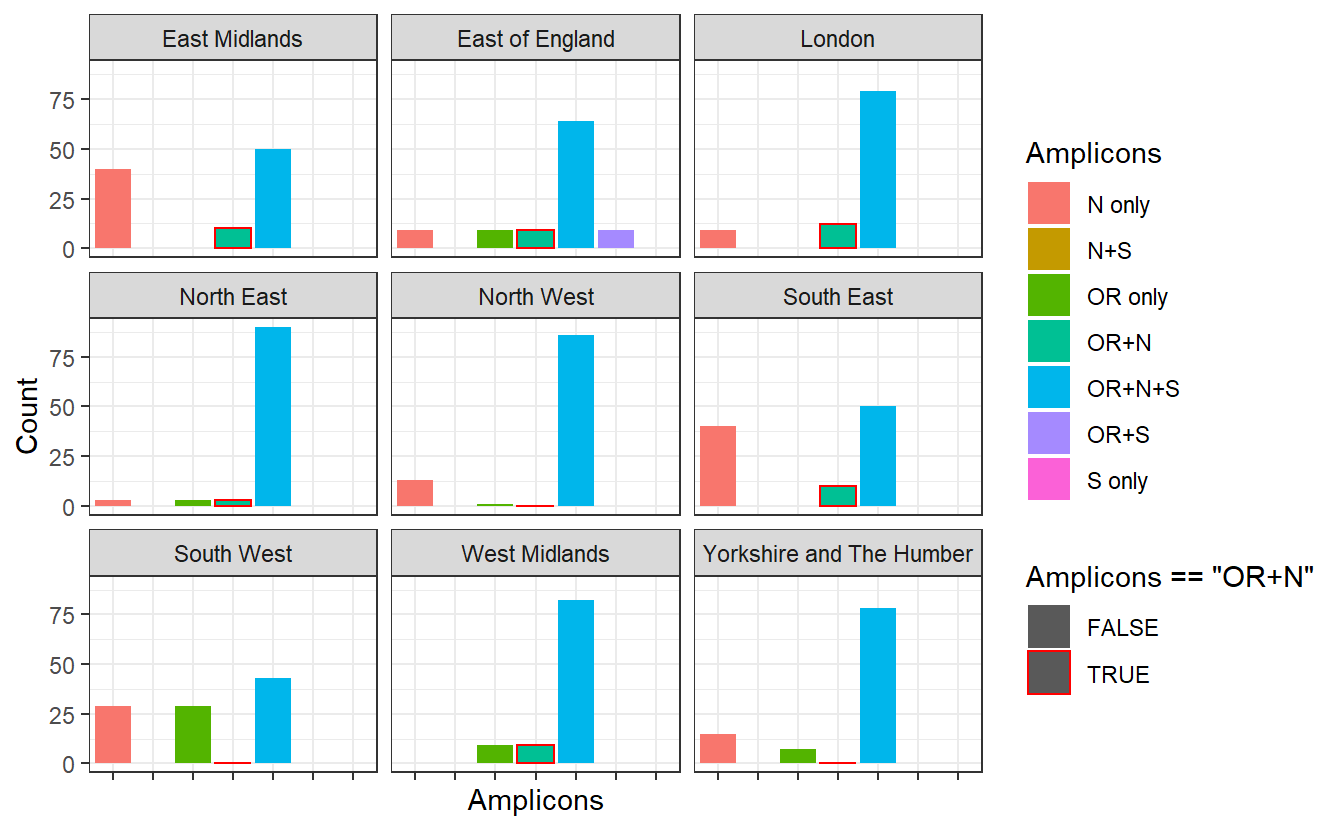
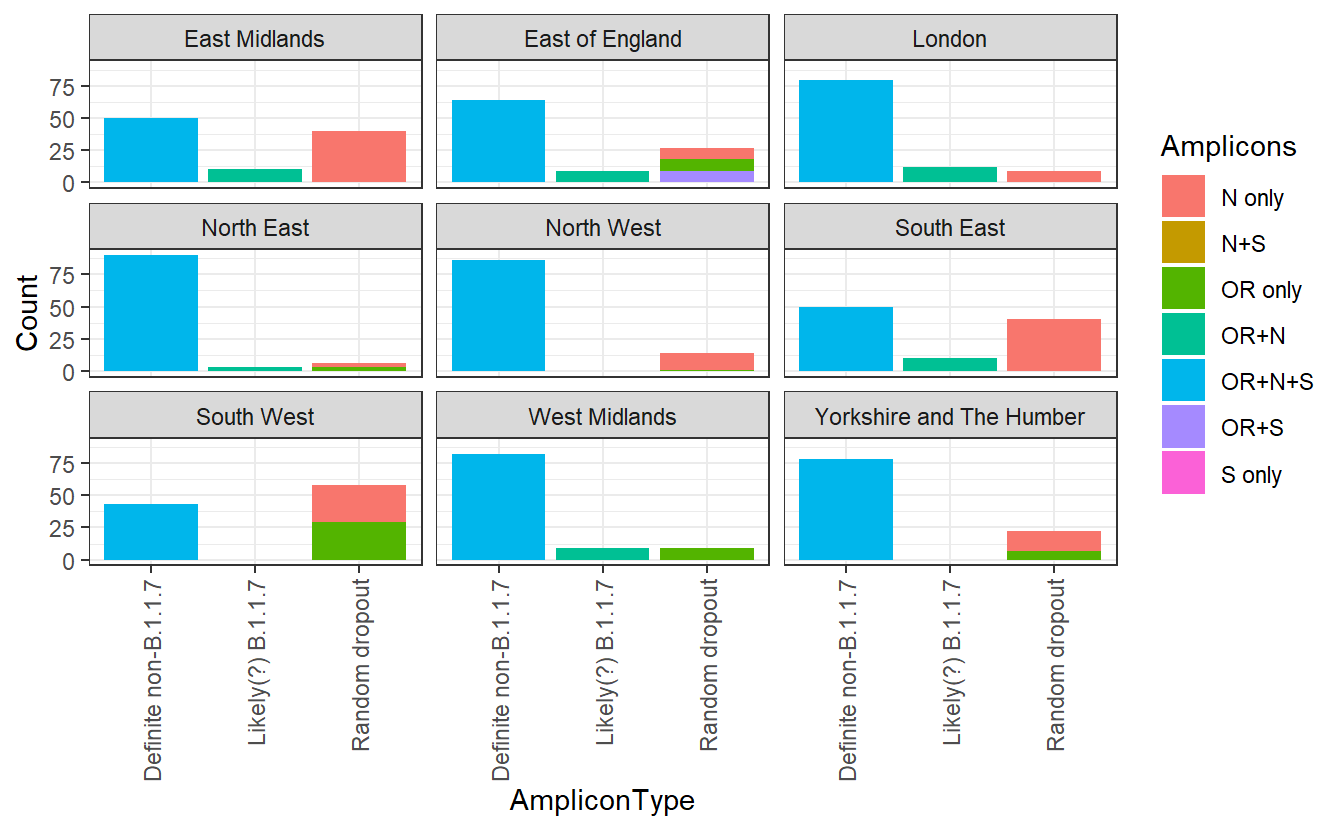
updates

diff --git a/content/post/2021-01-22-ons-data/index.md b/content/post/2021-01-22-ons-data/index.md
@@ -12,11 +12,11 @@ draft: false
 projects: []
 mininote: true
 output:  hugodown::md_document  
-rmd_hash: 0fa88b389b7b594e
+rmd_hash: 6a2fcf846baa64a5
 
 ---
 
-Code behind this analysis: <a href="https://github.com/theosanderson/theo.io/tree/master/content/post/2021-01-22-ons-data" class="uri">https://github.com/theosanderson/theo.io/tree/master/content/post/2021-01-22-ons-data</a>
+<small>Code behind this analysis: <a href="https://github.com/theosanderson/theo.io/tree/master/content/post/2021-01-22-ons-data" class="uri">https://github.com/theosanderson/theo.io/tree/master/content/post/2021-01-22-ons-data</a></small>
 
 The ONS infection survey has come out and there has been a lot of discussion on the apparent decrease in proportion of "new variant compatible" cases.
 
@@ -38,20 +38,23 @@ First let's convince ourselves that, irrespective of B.1.1.7, dropouts of amplic
 
 <div class="highlight">
 
-<pre class='chroma'><code class='language-r' data-lang='r'><span class='nv'>subset</span> <span class='o'>=</span> <span class='nv'>data</span> <span class='o'>%&gt;%</span> <span class='nf'><a href='https://rdrr.io/r/stats/filter.html'>filter</a></span><span class='o'>(</span><span class='nv'>week</span><span class='o'>==</span><span class='s'>"2020-09-21"</span><span class='o'>)</span> <span class='o'>%&gt;%</span> <span class='nf'><a href='https://rdrr.io/r/stats/filter.html'>filter</a></span><span class='o'>(</span><span class='nv'>RegionType</span><span class='o'>==</span><span class='s'>"EnglandRegion"</span><span class='o'>)</span>
-<span class='nf'>ggplot</span><span class='o'>(</span><span class='nv'>subset</span>,<span class='nf'>aes</span><span class='o'>(</span>x<span class='o'>=</span><span class='nv'>Amplicons</span>,y<span class='o'>=</span><span class='nv'>Count</span>,fill<span class='o'>=</span><span class='nv'>Amplicons</span>,color<span class='o'>=</span><span class='nv'>Amplicons</span><span class='o'>==</span><span class='s'>"OR+N"</span><span class='o'>)</span><span class='o'>)</span><span class='o'>+</span><span class='nf'>geom_bar</span><span class='o'>(</span>stat<span class='o'>=</span><span class='s'>"identity"</span><span class='o'>)</span><span class='o'>+</span><span class='nf'>facet_wrap</span><span class='o'>(</span><span class='o'>~</span><span class='nv'>Region</span><span class='o'>)</span><span class='o'>+</span><span class='nf'>theme_bw</span><span class='o'>(</span><span class='o'>)</span><span class='o'>+</span>
-  <span class='nf'>theme</span><span class='o'>(</span>
-        axis.text.x<span class='o'>=</span><span class='nf'>element_blank</span><span class='o'>(</span><span class='o'>)</span>
-        <span class='o'>)</span><span class='o'>+</span><span class='nf'>scale_color_manual</span><span class='o'>(</span>values<span class='o'>=</span><span class='nf'><a href='https://rdrr.io/r/base/c.html'>c</a></span><span class='o'>(</span><span class='s'>"NA"</span>,<span class='s'>"red"</span><span class='o'>)</span><span class='o'>)</span>
+<pre class='chroma'><code class='language-r' data-lang='r'><span class='nv'>subset</span> <span class='o'>=</span> <span class='nv'>data</span> <span class='o'>%&gt;%</span> <span class='nf'><a href='https://rdrr.io/r/stats/filter.html'>filter</a></span><span class='o'>(</span><span class='nv'>week</span><span class='o'>==</span><span class='s'>"2020-09-21"</span><span class='o'>)</span> <span class='o'>%&gt;%</span> <span class='nf'><a href='https://rdrr.io/r/stats/filter.html'>filter</a></span><span class='o'>(</span><span class='nv'>RegionType</span><span class='o'>==</span><span class='s'>"EnglandRegion"</span><span class='o'>)</span> <span class='o'>%&gt;%</span> <span class='nf'>mutate</span><span class='o'>(</span>AmpliconType <span class='o'>=</span> <span class='nf'>case_when</span><span class='o'>(</span>
+ <span class='nv'>Amplicons</span> <span class='o'>%in%</span> <span class='nf'><a href='https://rdrr.io/r/base/c.html'>c</a></span><span class='o'>(</span><span class='s'>"N only"</span>,<span class='s'>"N+S"</span>,<span class='s'>"OR only"</span>,<span class='s'>"OR+S"</span>,<span class='s'>"S only"</span><span class='o'>)</span> <span class='o'>~</span> <span class='s'>"Random dropout"</span>,
+  <span class='nv'>Amplicons</span> <span class='o'>==</span> <span class='s'>"OR+N+S"</span> <span class='o'>~</span> <span class='s'>"Definite non-B.1.1.7"</span>,
+  <span class='nv'>Amplicons</span> <span class='o'>==</span> <span class='s'>"OR+N"</span> <span class='o'>~</span> <span class='s'>"Likely(?) B.1.1.7"</span>
+<span class='o'>)</span><span class='o'>)</span>
+                                                                                                
+                                                                                                
+<span class='nf'>ggplot</span><span class='o'>(</span><span class='nv'>subset</span>,<span class='nf'>aes</span><span class='o'>(</span>x<span class='o'>=</span><span class='nv'>AmpliconType</span>,y<span class='o'>=</span><span class='nv'>Count</span>,fill<span class='o'>=</span><span class='nv'>Amplicons</span><span class='o'>)</span><span class='o'>)</span><span class='o'>+</span><span class='nf'>geom_bar</span><span class='o'>(</span>stat<span class='o'>=</span><span class='s'>"identity"</span><span class='o'>)</span><span class='o'>+</span><span class='nf'>facet_wrap</span><span class='o'>(</span><span class='o'>~</span><span class='nv'>Region</span><span class='o'>)</span><span class='o'>+</span><span class='nf'>theme_bw</span><span class='o'>(</span><span class='o'>)</span><span class='o'>+</span> <span class='nf'>theme</span><span class='o'>(</span>axis.text.x <span class='o'>=</span> <span class='nf'>element_text</span><span class='o'>(</span>angle <span class='o'>=</span> <span class='m'>90</span>, vjust <span class='o'>=</span> <span class='m'>0.5</span>, hjust<span class='o'>=</span><span class='m'>1</span><span class='o'>)</span><span class='o'>)</span>
 
 </code></pre>
 <img src="figs/unnamed-chunk-2-1.png" width="700px" style="display: block; margin: auto;" />
 
 </div>
 
-I've circled in red the variants that would be considered new variant compatible. Let's ignore these for now. We can see that there is a substantial variation in the other amplicon groups. If there were no random dropout (and no other variants that compromise an assay), we would expect everything to be `OR+N+S`. But in the South West these make up a minority of the total positives identified.
+I've separated out the `OR+N` amplicon types, which the ONS considers new variannt compatible. Let's ignore these for now. We can see that there is a substantial variation in the other amplicon groups. If there were no random dropout (and no other variants that compromise an assay), we would expect everything else to be `OR+N+S`. But in the South West these make up a minority of the total positives identified. Instead it seems that some of these amplicons are randomly dropping out there.
 
-We can also see a lot of geographical heterogeneity. What drives this? We also have the mean Ct values for each region so we can test the hypothesis that high Ct values (low number of virions), due to a higher proportion of infections being identified longer after the original infection, are responsible for the "random dropout".
+We can also see a lot of geographical heterogeneity in the level of this random dropout. What drives this? We also have the mean Ct values for each region so we can test the hypothesis that high Ct values (low number of virions), due to a higher proportion of infections being identified longer after the original infection, are responsible for the "random dropout".
 
 <div class="highlight">
 
@@ -68,7 +71,7 @@ We can also see a lot of geographical heterogeneity. What drives this? We also h
 <span class='c'>#&gt; Joining, by = c("Region", "RegionType", "week")</span>
 
 
-<span class='nf'>ggplot</span><span class='o'>(</span><span class='nv'>both</span>,<span class='nf'>aes</span><span class='o'>(</span>x<span class='o'>=</span><span class='nv'>Mean</span>,y<span class='o'>=</span><span class='nv'>RandomDropout</span>,label<span class='o'>=</span><span class='nv'>Region</span><span class='o'>)</span><span class='o'>)</span><span class='o'>+</span><span class='nf'>geom_point</span><span class='o'>(</span><span class='o'>)</span><span class='o'>+</span><span class='nf'>labs</span><span class='o'>(</span>x<span class='o'>=</span><span class='s'>"Mean Ct value"</span>,y<span class='o'>=</span><span class='s'>"Proportion of 'random dropout'"</span><span class='o'>)</span><span class='o'>+</span><span class='nf'><a href='https://rdrr.io/pkg/ggrepel/man/geom_text_repel.html'>geom_text_repel</a></span><span class='o'>(</span><span class='o'>)</span><span class='o'>+</span><span class='nf'>theme_bw</span><span class='o'>(</span><span class='o'>)</span><span class='o'>+</span><span class='nf'>scale_y_continuous</span><span class='o'>(</span>labels<span class='o'>=</span><span class='nf'>scales</span><span class='nf'>::</span><span class='nv'><a href='https://scales.r-lib.org//reference/label_percent.html'>percent</a></span><span class='o'>)</span>
+<span class='nf'>ggplot</span><span class='o'>(</span><span class='nv'>both</span>,<span class='nf'>aes</span><span class='o'>(</span>x<span class='o'>=</span><span class='nv'>Mean</span>,y<span class='o'>=</span><span class='nv'>RandomDropout</span>,label<span class='o'>=</span><span class='nv'>Region</span><span class='o'>)</span><span class='o'>)</span><span class='o'>+</span><span class='nf'>geom_point</span><span class='o'>(</span><span class='o'>)</span><span class='o'>+</span><span class='nf'>labs</span><span class='o'>(</span>x<span class='o'>=</span><span class='s'>"Mean Ct value"</span>,y<span class='o'>=</span><span class='s'>"Proportion of 'random dropout'"</span><span class='o'>)</span><span class='o'>+</span><span class='nf'><a href='https://rdrr.io/pkg/ggrepel/man/geom_text_repel.html'>geom_text_repel</a></span><span class='o'>(</span><span class='o'>)</span><span class='o'>+</span><span class='nf'>theme_bw</span><span class='o'>(</span><span class='o'>)</span><span class='o'>+</span><span class='nf'>scale_y_continuous</span><span class='o'>(</span>labels<span class='o'>=</span><span class='nf'>scales</span><span class='nf'>::</span><span class='nv'><a href='https://scales.r-lib.org//reference/label_percent.html'>percent</a></span><span class='o'>)</span><span class='o'>+</span><span class='nf'>labs</span><span class='o'>(</span><span class='s'>"Relationship between Ct and levels of random dropout in September"</span><span class='o'>)</span>
 
 </code></pre>
 <img src="figs/unnamed-chunk-3-1.png" width="700px" style="display: block; margin: auto;" />
